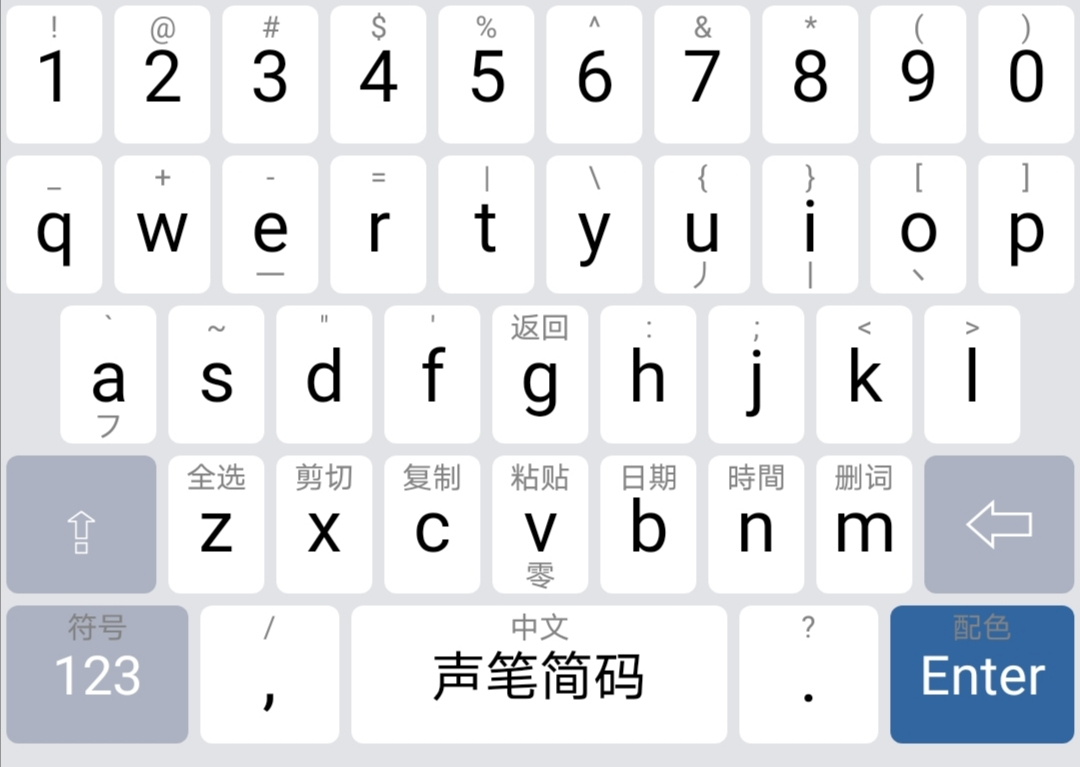
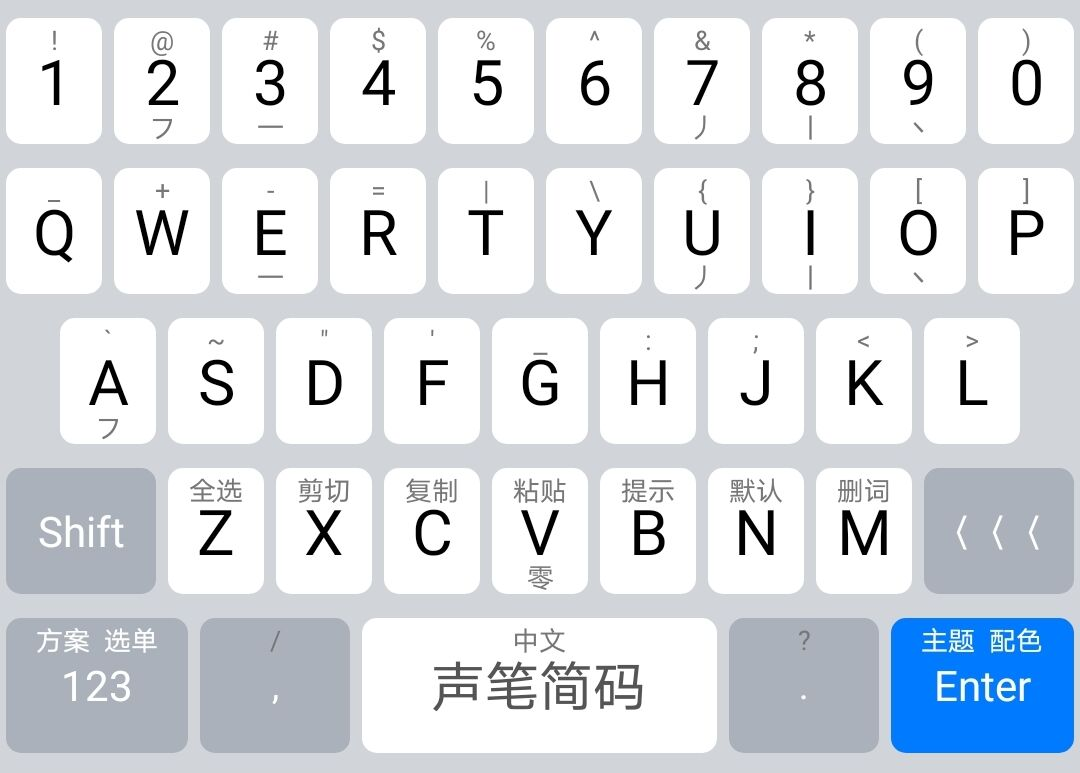
Site updated: 2021-03-02 15:04:26

diff --git a/sbfm/index.html b/sbfm/index.html
@@ -123,7 +123,7 @@
 <meta property="og:image" content="http://sbxlm.gitee.io/images/SbfmYyxxoe.png">
 <meta property="og:image" content="http://sbxlm.gitee.io/images/sbfz1.png">
 <meta property="og:image" content="http://sbxlm.gitee.io/images/sbfz2.gif">
-<meta property="og:updated_time" content="2021-02-26T02:51:57.350Z">
+<meta property="og:updated_time" content="2021-03-02T06:49:39.302Z">
 <meta name="twitter:card" content="summary">
 <meta name="twitter:title" content="声笔飞码">
 <meta name="twitter:description" content="一、概述声笔飞码，简称飞码，是在输入法界影响最大的顶功输入法，可以说是它直接或者间接地激发了其它非声笔系列顶功输入法的产生。声笔飞码有着「悠久」的历史，同时又在不断的进化、发展，一直处在高效顶功输入法的前沿，探索并创造新的顶功编码模式。 声笔飞码在2005年首次发布时引起了输入法圈子内巨大的震动，因为其纯单字的输入效率，在使用26个字母编码的前提下，比当时效率最高的五笔字型提高了35%，而且其学习">
@@ -625,10 +625,10 @@
 <p>受声笔飞码的直接或接间影响，现在已经产生出了许多顶功输入法。化外愚民先生在声笔飞码的基础上取消飞码的词组，增加几个标点符号进行编码，以进一步增强飞码的单字能力，形成了“西风瘦码”，使纯单字输入时的平均码长从飞码的2.4键左右降到了2.3键左右，成为单字派的利器，也成为后起单字派输入法追赶的目标。</p>
 <p>目前在互联网上，有关顶功输入法的讨论更是非常热烈，各种顶功思路层出不穷，令人眼花缭乱、应接不暇。除了早期的声笔码、声笔飞码、声笔快码和西风瘦码外，后来出现的有一码起顶的左飞1811，二码起顶的小兮码、灵形速影、左飞双拼、顶功雅歌，三码起顶的左飞三码、听雨三码，二四顶屏的顶功希码，星空学系列的星空两笔、星空键道及其变种，采用四二顶的C42，采用五二顶的徐码五二顶等等。</p>
 <p>后起的顶功输入法，最初都非常追求单字的效率，甚至达到了偏执的程度，于是采用无理码的风气盛行一时。但是，在二码顶的基础上，试图采用增加一定的码元、增加编码的复杂规则和增加无理码来大幅度缩短码长，收效都是不大的，这是汉字的统计特性所决定的。顶功输入并不意味着就是单字输入，词组的作用在顶功输入法中也是非常重要的。顶功和单字没有必然的联系，顶功输入法既以单字为主的，也有以词组为主的。</p>
-<p>声笔飞码经过了十多年的发展和创新，从1.00版到现在的9.50版，尝试了各种各样的顶功模式，终于确定下了现在主词的飞码。在飞码的基础上，还衍生出了主单的飞讯和整句型的飞整两个输入法方案。</p>
+<p>声笔飞码经过了十多年的发展和创新，从1.00版到现在的9.50版，尝试了各种各样的顶功模式，终于确定下了现在主词的飞码。在飞码的基础上，还衍生出了主单的飞讯和整句型的飞整两个输入法方案。最新版的飞讯又取得了重大的突破，将主单的输入法带到了一个前所未有的新高度，让主单的顶功输入法同时具有了强大的词组输入能力，深受极客打字用户的欢迎。</p>
 <p>本文将详细讲解飞码，然后对照飞码，花两节的篇幅来讲解飞讯和飞整，只讲有区别的地方，以免赘述。有关软件的安装与卸载、笔画反查、翻页、标点、符号、词库同步、自定义词典、中英文混合输入、手机操作等声笔系列码共有的内容，请阅读<a href="../about/">总体介绍</a>中的相关部分。</p>
 <h2 id="二、单字的输入"><a href="#二、单字的输入" class="headerlink" title="二、单字的输入"></a>二、单字的输入</h2><p>单字是输入法的基础，词组的编码是由单字的编码衍生出来的，所以必须对单字的编码有深刻的理解才能学好输入法。声笔飞码采用声母、笔画和偏旁部首来对汉字进行编码。声母不分平翘舌，零声母用v表示。横竖撇捺折五类笔画，分别用eiuoa来代表。</p>
-<p>声笔飞码一共收录了GBK的2万多单字，单字编码格式有两种，它们是<code>sb, spb^b</code>。其中，<code>sb</code>这种格式是比较特殊的，只有105个高频字采用它。它一方面增加了一点编码的复杂性，而另一方面又增加了飞码的离散能力，更重要的是给飞码带来了巨大的灵活性，为后起的优秀主单方案——飞讯的诞生创造了条件。除了105个高频字采用<code>sb</code>格式外，其它字都是采用的<code>spb^b</code>格式，前者称为声笔字，后者称为普通字。</p>
+<p>声笔飞码一共收录了GBK的2万多单字，单字编码格式有两种，它们是<code>sb</code>和<code>spb^b</code>。其中，<code>sb</code>这种格式是比较特殊的，只有105个高频字采用它。它一方面增加了一点编码的复杂性，而另一方面又增强了飞码的离散能力，更重要的是给飞码带来了巨大的灵活性，为后起的优秀主单方案——飞讯的诞生创造了条件。除了105个高频字采用<code>sb</code>格式外，其它字都是采用的<code>spb^b</code>格式，前者称为声笔字，后者称为普通字。</p>
 <p>在学习飞码之初，往往会遇到不会打的字。怎么办呢？系统提供了丰富的反查手段，可以通过笔画、拼音和声笔来反查编码和部首。在完全不知道读音的时候直接用<code>aeuio</code>按顺序输入笔画进行反查，在不知道字形时用a引导拼音反查（注意零声母要用v），在知道声母但不知道部首时直接用声母和笔画输入四码进行反查。反查的结果不仅会显示编码，而且会显示拆分的部首，以方便理解。以下是几个反查的例子。</p>
 <p><img src="/images/fmfc.png" alt="飞码反查"></p>
 <p>另外，通过i引导的拼音还支持用字海两分法来进行反查， 支持查找八万多汉字，一般用于难读而易于两分的字进行反查或者GBK以外字的输入。GBK以外的字，飞码不提供正常编码，不能按正常方式输入，只能在两分查找到后选择输入。下面是字海两分法查找的例子。</p>
@@ -638,25 +638,26 @@
             <p>如同孔明自快话，开口正道无怕经，二双公民来前线<br>年内安然回南国，若说阿维当农夫，片上方家暗笑她<br>进得高中好体面，心想事成且大为，别看晚儿那小子<br>强力对手也头破，从此把着全日用，除非白天会给还<br>部分次品立飞过，让利几起眼皮边，名门里外有意见</p>
           </div>
 <p>输入声笔字时，一般是不需要空格上屏的，因为它可以被后续的字词顶上屏幕，例如：<code>二双公民来前线</code>的输入码为<code>vesagumaleqoxa</code>。声笔字都是使用频率很高的字，所以飞码可以节约许多空格，，使得它有相当高的单字输入效率。</p>
-<p>由于声笔字与其它字有着不同的输入路径，为了减轻用户的记忆负担，在输入声母后，就对它们进行了提示，如下图所示。这样，初学者只有在观察到提示中没有想要的单字时才输入后面的编码。</p>
+<p>由于声笔字与其它字有着不同的输入路径，为了避免用户的死记，在输入声母后，就对它们进行了提示，如下图所示。这样，初学者只需观察提示中没有想要的单字，没有时才输入后面的编码。</p>
 <p><img src="/images/fmts.png" alt="声笔飞码提示"></p>
 <p>声笔字不仅在第一码后有提示，在第三码后也是有提示的，只是提示的方法不一样，如下所示，其中前两码为前一字对应的编码，第三码为第二字的第一码。这上面列出的两个字不一定是一个词，仅仅是为了提示声笔字而已。</p>
 <p><img src="/images/fmts2.png" alt="声笔飞码提示2"></p>
 <h3 id="2-普通字"><a href="#2-普通字" class="headerlink" title="2. 普通字"></a>2. 普通字</h3><p>飞码中采用<code>spb^b</code>格式的字称为普通字，即声母加偏旁部首加剩余部分的前两笔。</p>
-<p>飞码的偏旁部首通常就是人们查字典时使用的偏旁部首。为了便于记忆，在声笔飞码中一般取偏旁部首（或其名称）的声母作为它的代码。但是，为了提高编码的效率，有的偏旁部首采取了<code>形托</code>和<code>归类</code>的方法来确定其代码。同时，在归部时字典中一般将偏旁部首归于其自身，而声笔飞码将偏旁部首归于其首笔画，这一方面提高了编码的效率，另一方面也突出了偏旁部首的作用，有助于用户建立起识别偏旁部首的条件反射。还有，字典中一个字可以归于几个部，而声笔飞码中一个字只能归于一个部，一般是取书写顺序的第一个部，但有时要兼顾直观和<code>义部优先</code>等因素。</p>
+<p>飞码的偏旁部首通常就是人们查字典时使用的偏旁部首。为了便于记忆，在声笔飞码中一般取偏旁部首（或其名称）的声母作为它的代码。但是，为了提高编码的效率，有的偏旁部首采取了<code>形托</code>和<code>归类</code>的方法来确定其代码。同时，在归部时，字典中一般将偏旁部首归于其自身，而声笔飞码将偏旁部首归于其首笔画，这一方面提高了编码的效率，另一方面也突出了偏旁部首的作用，有助于用户建立起识别偏旁部首的条件反射。还有，字典中一个字可以归于几个部，而声笔飞码中一个字只能归于一个部，一般是取书写顺序的第一个部，但有时要兼顾直观和<code>义部优先</code>等因素。</p>
 <p>偏旁部首的具体键位定义如下，</p>
 <p><img src="/images/bushou.png" alt="bushou"></p>
-<p>为了减轻初学者的记忆负担，手机上提供了助记皮肤，如下图所示，可以长按上<code>G</code>键打开或者关闭助记。</p>
+<p>为了减轻初学者的记忆负担，手机上提供了助记皮肤，如下图所示，可以长按上<code>N</code>键打开或者关闭助记。</p>
 <p><img src="/images/sbfmzj.jpg" alt="声笔飞码助记"></p>
 <p>以上偏旁部首中，需要注意的有<code>勹</code>（包字头）、<code>忄</code>（像小写字母 l）、<code>廴辶</code>（像 L）、<code>灬</code>（烈字底）、<code>衤礻止</code>（形状勉强像 N）、<code>廾</code>（弄字底）、<code> 丿彡</code>（撇起笔）、<code>攴</code>（敲字旁）、<code>攵（夂 夊）</code>（反文旁）、<code>亠</code>（文字头）、<code>彐</code>（寻字头）、疋（音为 ya）、<code>罒</code>（置字头）、<code>镸</code>（长字音）、<code>巛</code>（甾）字头；可以通过以上不同的方式来辅助记忆它们的代码。</p>
 <p>在声笔飞码中所取笔画并不一定是从汉字的第一笔开始取的，这依赖于偏旁部首是否位于字的前面。如果偏旁部首位于字的前面，即偏旁部首前没有任何其它的笔画，那么追加的笔画就除偏旁部首外的第一笔开始取，否则就从字本身的第一笔开始取。</p>
 <p>例如，<code>倒</code>字的偏旁部首<code>亻</code>是位于该字的前面的，所以追加的笔画应从除<code>亻</code>外的剩余部分即<code>到</code>的第一笔开始。再如，<code>坠</code>字的偏旁部首<code>土</code>是位于该字的后面的，不是位于字的前面，所以追加的笔画应从该字的第一笔开始。注意，有的字的偏旁部首是夹在了前后笔画的中间，如<code>戴</code>字的偏旁部首<code>戈</code>。这时，字的偏旁部首仍然不是位于字的前面，所以追加的笔画还是应从该字的第一笔开始。</p>
-<p>在声笔飞码中，对偏旁部首本身来说，第一个笔画的代码用<code>zhpsd</code>而不是<code>aeuio</code>表示；而对一般汉字来说，才用它所属偏旁部首的代码。这里的偏旁部首是指成字偏旁部首，即有读音的偏旁部首，非成字偏旁部首只能按纯笔画方式输入。</p>
-<p>为了区分常用字的重码，有几个部首字的编码没有取第一笔作为偏旁部首，这些字为<code>走麦广</code>，它们都是取字的子部首。另外，<code>敌</code>字的部首没有取<code>舌</code>而取了<code>攵</code>，<code>或</code>字的部首没有取<code>戈</code>而取了<code>一</code>，算是例外。还有，为了提高离散，有的字没有取常规的部首；例如，<code>重 垂</code>取的是最下面的<code>二</code>而不是首笔撇；<code>奏 三</code>取的是上面的<code>二</code>；<code>某</code>取的<code>艹</code>而不是<code>木</code>。</p>
-<p>与传统四码输入法一样，飞码在形式上也有一、二、三级简码和全码，分别对应一简字、二简字、三简字和全码字。但是，在实质上是有很大区别的，其中最大的区别是，飞码的三简字可以被顶上屏幕，全码字的重码是用<code>aeuio</code>来选择而不是用难以击打的数字键。另外，飞码采用的出简不出全策略，有简码的字就不会有全码，以便节约有限的编码空间，并强制用户采用最高效的输入方式，形成快速的条件反射。</p>
+<p>在声笔飞码中，若偏旁部首本身是一个成字，那么就取它的第一个笔画作为部首，并用<code>zhpsd</code>来编码。非成字偏旁部首没有常规编码，只能按笔画反查方式输入。</p>
+<p>为了区分常用字的重码，有几个成字偏旁部首取其第一笔作为偏旁部首，这些字为<code>走麦广</code>，它们都是取字的子部首。另外，<code>敌</code>字的部首没有按顺序取<code>舌</code>而取了<code>攵</code>，<code>或</code>字的部首没有取<code>戈</code>而取了<code>一</code>。还有的字没有取常规的部首，例如：<code>重 垂</code>取的是最下面的<code>二</code>而不是首笔撇；<code>奏 三</code>取的是上面的<code>二</code>；<code>某</code>取的<code>艹</code>而不是<code>木</code>，<code>世</code>和<code>甘</code>取的<code>艹</code>而不是<code>一</code>等等。这些都是为了增强编码的离散而采取的变通取法。</p>
+<p>与传统四码输入法一样，飞码在形式上也有一、二、三级简码和全码，分别对应一简字、二简字、三简字和全码字。但是，在实质上是有很大区别的，其中最大的区别是，飞码的三简字可以被顶上屏幕，全码字的重码是用<code>aeuio</code>来选择而不是用难以击打的数字键。</p>
+<p>另外，与传统高效输入法一样，飞码采用的出简不出全策略，有简码的字就不会有全码，以便节约有限的编码空间，并强制用户采用最高效的输入方式，形成快速的条件反射。所以，一定要注意，飞码输入汉字时，“过了这个村就没有这个店了”，不能输完四码再看有没有你要的字。初学的时候一定要每输入一码就看有没有你要的字，没有的话才能输入后面的编码，否则就可能错过你要的字。当然，在你在使用中记住了字的码长，形成条件反射后，是完全可以不看提示行的。</p>
 <h4 id="1-一简字"><a href="#1-一简字" class="headerlink" title="(1) 一简字"></a>(1) 一简字</h4><p>飞码有21个一简字：<code>不平没发的他你了个可和就去下在出是人而一我</code>，又称为声空字或<code>s_字</code>，其中<code>_</code>表示空格。它们是强制性的简码字，没有对应的全码，都是使用频率极高的字，使用一段时间后用户就会自然地形成条件反射。</p>
-<p>一简字一般需要用声母加空格输入，但是在后接非编码字符时是可以省略空格的。例如，<code>我是一个人。</code>的输入码为<code>w_s_y_g_r.</code>，其中<code>_</code>表示空格，最后的「人」字，被句号顶上屏幕而省略空格。</p>
-<p>与传统输入法不同，飞码的一简字所加的空格是作为编码来对待的。如果没有后续编码而需要将其上屏的时候，就需要连续两次空格键。为了避免这个问题，特设置可以用数字4将一简字直接选择上屏，以便节约一次按键。这在一简字因组合输入出现在第三码时也是适用的，这时还可以避免双击空格误上屏不需要的词组，因为当四码有重码且组合的二字串不是首选项时，「行了」不在首选，双击空格时上屏的将不是「行了」而是「形成了」，如下图所示。</p>
+<p>与传统输入法不同，飞码的一简字所加的空格是作为编码来对待的，输入空格后，一简字不会立刻上屏，但是在连续输入过程中会被后面字词的首码「顶」上屏幕。例如，<code>我是一个人。</code>的输入码为<code>w_s_y_g_r.</code>，其中<code>_</code>表示空格。</p>
+<p>在极个别情况下，需要单独输入一简字并将其立刻上屏的时候，就需要连续两次空格键。为了避免这个问题，可以用数字4将一简字直接选择上屏，以便节约一次按键。这在一简字因组合输入出现在第三码时也是适用的，这时还可以避免双击空格误上屏不需要的词组，因为当四码有重码且组合的二字串不是首选项时，「行了」不在首选，双击空格时上屏的可能就不是「行了」而是「形成了」，如下图所示。</p>
 <p><img src="/images/ljsp.png" alt="立即上屏"></p>
 <h4 id="2-二简字"><a href="#2-二简字" class="headerlink" title="(2) 二简字"></a>(2) 二简字</h4><p>飞码的二简字有441个，其格式为<code>sp</code>，所以又称为<code>sp字</code>或者声偏字，其中的大多数也是相当常用的，例如：<code>加jl 尽js 量lq</code>等。</p>
 <p>与传统输入法一样，声笔飞码的二简字一般需要加空格上屏。例如，<code>解jj_ 所sj_ 摸mf_</code>等等，其中<code>_</code>表示空格。当然，如果后接的是数字、标点符号等非编码字符时，这个空格仍然是可以省略的。</p>
@@ -664,12 +665,12 @@
 <h4 id="4-全码字"><a href="#4-全码字" class="headerlink" title="(4) 全码字"></a>(4) 全码字</h4><p>声笔飞码的全码是四码，编码格式为<code>spbb</code>，即声母加偏旁部首再加剩余部分的前两个笔画，例如：<code>码msaa 巨jkae 瞄mmei</code>等。但是，在出现重码字时，声笔飞码采用了更加快捷的选择方式，不是用数字键，而是用<code>aeuio</code>来进行选择，如下所示。</p>
 <p><img src="/images/fmxc.png" alt="声笔飞码选重"></p>
 <h4 id="5-条件顶"><a href="#5-条件顶" class="headerlink" title="(5) 条件顶"></a>(5) 条件顶</h4><p>飞码的单字除了三码字可以被顶上屏幕外，其声空字和二码字也可以在一定条件下被顶上屏幕，这是一种非常奇特的能力，是从飞讯反向借鉴过来的。飞码条件顶是指在输入二字词的时候，若第一字正确而第二字不对时，可以追加第二字的第三码，将第一字顶上屏幕，前提是追加的第三码与选择键没有冲突。例如，在输入「声笔」的时候，发现系统没有该词，而且「笔」字的第三码u又没有被重码词占用，那么在输入u的时候就会将「声」字顶上屏幕，留下「bpu」，对应的字正是「笔」。这样，就不必用退格键来清除「bp」两码，用空格先上屏「声」字，再输入「笔」字了。</p>
-<h2 id="三、词组的输入"><a href="#三、词组的输入" class="headerlink" title="三、词组的输入"></a>三、词组的输入</h2><p>词组，特别是二字词，在现代汉语中是占主导地位的，任何输入法都不能忽视。飞码对二字词特别重视，以便提高其输入效率。飞码词组按其组成字的多少分为二字词、三字词和多字词，现分述如下。</p>
+<h2 id="三、词组的输入"><a href="#三、词组的输入" class="headerlink" title="三、词组的输入"></a>三、词组的输入</h2><p>词组，特别是二字词，在现代汉语中是占主导地位的，任何输入法都不能忽视。飞码对二字词特别重视，致力于提高其输入效率。飞码词组按其组成字的多少分为二字词、三字词和多字词，现分述如下。</p>
 <h3 id="1-二字词"><a href="#1-二字词" class="headerlink" title="1. 二字词"></a>1. 二字词</h3><p>飞码的二字词输入功能强大，其二字词被进一步分为常规词组和数选简词两类。</p>
-<h4 id="1-常规词组"><a href="#1-常规词组" class="headerlink" title="(1) 常规词组"></a>(1) 常规词组</h4><p>除数选简词外的所有二字词都是常规词组，而常规词组又分为sbbs型和spsz型。之所以要这样设计，一方面是为了实现部分单字能够二码顶，提高单字效率，另一方面也是为了增强打词的顺畅感和避免一简字用双空格。</p>
+<h4 id="1-常规词组"><a href="#1-常规词组" class="headerlink" title="(1) 常规词组"></a>(1) 常规词组</h4><p>飞码的常规二字词又分为sbbs型和spsz型。之所以要这样设计，就是为了声笔字能够二码顶，以提高单字效率，使它的单字效率优于其它主词的顶功输入法。</p>
 <p>由21个声空字和105声笔字开头的二字词为sbbs型，其编码方法为第一字的前两码加第二字的前一笔再加第二字的声母，例如：<code>不能b_an 下台x_at 大汉deoh 心爱xouv</code>等。若二字词首字的前两码为声母加偏旁部首，那么就是spsz型的，其第二字就是取相应单字的前两码，例如：<code>常规cjgj 电脑dqnv 洞见ddji 健全jrqu 统一tjy_ 淹没ydm_</code>等。</p>
 <p>另外，为了输入方便，飞码在第三码时提示了前两码对应的单字和第三码开始的一简字和声笔字，例如：<code>困一kky_ 放是ffs_ 难大nyde 实无sgwe</code>等。如果这种字串与真正的词组重码也没有关系，它会被作为重码词排在最后，只需用<code>aeuio</code>选择上屏即可。为了增加确定性，在第二码为声空字时，可以在输入三码后用4直接上屏，例如：<code>困一kky4 放是ffs4</code>，以避免在有重码时进行选重。</p>
-<h4 id="2-数选简词"><a href="#2-数选简词" class="headerlink" title="(2) 数选简词"></a>(2) 数选简词</h4><p>为了提高输入效率，飞码提供了数选简词，但不是强制使用的，仍然有对应的正常字母编码词组。所谓数选简词，是指用数字键来选择的简码词组。为了减少记忆量，数字的使用并不是随机的，而是用23789来代替aeuio表示笔画。</p>
+<h4 id="2-数选简词"><a href="#2-数选简词" class="headerlink" title="(2) 数选简词"></a>(2) 数选简词</h4><p>为了提高输入效率，飞码提供了数选简词，但不是强制使用的，它们仍然有对应的正常编码词组。所谓数选简词，是指用数字键来选择的简码词组。为了减少记忆量，数字的使用并不是随机的，而是用23789代替aeuio来表示笔画。</p>
 <p>为什么用23789，而不用传统的12345呢？这一方面是因为23789比12345更加容易操作，另一方面是23789可以与aeuio在键盘上位子形成近乎完美的映射，除2外正好位于相应笔画字母上一排相同的位置，非常容易记住，如下图所示。</p>
 <p><img src="/images/Bhszys.jpg" alt="笔画数字映射"></p>
 <p>数选简词分为sn型和szn型两种。飞码sn型的数选简词一共有105个，其具体编码格式为<code>s1n2</code>，即首字的声母加第二字的数字首笔，例如：<code>不能b2 发生f7 就是j8 科学k9</code>等。这些简词在声笔系列的所有字词型方案中都是一样的，使用频率很高，应该尽量采用。</p>
@@ -683,7 +684,7 @@
 <figure class="highlight plain"><table><tr><td class="gutter"><pre><span class="line">1</span><br><span class="line">2</span><br><span class="line">3</span><br><span class="line">4</span><br><span class="line">5</span><br><span class="line">6</span><br><span class="line">7</span><br><span class="line">8</span><br><span class="line">9</span><br></pre></td><td class="code"><pre><span class="line">不可能	bka</span><br><span class="line">让我们	rwu</span><br><span class="line">你知道	nzo</span><br><span class="line">没办法	mbo</span><br><span class="line">发现该	fxo</span><br><span class="line">多功能	dga</span><br><span class="line">那个人	ngu</span><br><span class="line">公安局	gva</span><br><span class="line">控制器	kzi</span><br></pre></td></tr></table></figure>
 <h2 id="四、字词分流"><a href="#四、字词分流" class="headerlink" title="四、字词分流"></a>四、字词分流</h2><p>在传统输入法如五笔字型中，四码的字、词是混合编码的，它们共享同一个编码空间。在发生重码时，究竟把单字排在前面，还是把词组排在前面，面临艰难的决策。当收录的单字和词组数量增大时，这个问题会变得更加突出。</p>
 <p>在声笔飞码中，单字和词组各自有不同的编码格式，单字的第三码肯定是笔画，而词组的第三码肯定是声母。所以，它们享有不同的编码空间，不会发生冲突，不存在单字和词组那个优先的问题。例如，四码单字<code>校jmoe 码msaa 暮mqei 渊yduo</code>，四码词组<code>答应dpyg 进步jebn 估计grjy 理想lwxe</code>，它们之间是绝对不会重码的。</p>
-<h2 id="五、扩展编码"><a href="#五、扩展编码" class="headerlink" title="五、扩展编码"></a>五、扩展编码</h2><p>声笔飞码词组的四码空间容量与传统四码输入法如五笔字型是差不多的。但是，由于声笔系列收词量高达48万之多，虽然飞码的离散很好，但是在个别情况下重码现象也会比较严重，可能需要多次翻页查找。于是，飞码采用了与声笔简码类似的扩展编码，通过追加首字的前两个笔画能迅速扩大编码空间为四码时的25倍，可以快速筛选出所需的重码词组。结合后述动态码长的使用，完美地兼顾了编码空间与输入效率，既能享有巨大的编码空间，又能具有较短的平均码长，两全其美。</p>
+<h2 id="五、扩展编码"><a href="#五、扩展编码" class="headerlink" title="五、扩展编码"></a>五、扩展编码</h2><p>声笔飞码词组的四码空间容量与传统四码输入法如五笔字型是差不多的。但是，由于声笔系列收词量高达48万之多，虽然飞码的离散很好，但是在个别情况下重码现象也会比较严重，可能需要多次翻页查找。于是，飞码采用了与声笔简码类似的扩展编码，通过追加首字的前两个笔画，迅速扩大编码空间为四码时的25倍，可以快速筛选出所需的重码词组。结合后述动态码长的使用，完美地兼顾了编码空间与输入效率，既能享有巨大的编码空间，又能具有较短的平均码长，两全其美。</p>
 <p>比如，「音乐学」一词在第一次输入时，输入<code>yyxx</code>后需要在第四页才能找到，如下图所示。每一页，都需要用眼睛扫视 6 个选项，人机交互频繁，效率很低。</p>
 <p><img src="/images/SbfmYyxx.png" alt="声笔飞码Yyxx"></p>
 <p>然而，如果再追加首字前两个笔画<code>oe</code>的话，「音乐学」就出现在第一页上，只需用<code>u</code>选择上屏就可以了，如下图所示。</p>
@@ -692,8 +693,8 @@
 <h2 id="六、动态码长"><a href="#六、动态码长" class="headerlink" title="六、动态码长"></a>六、动态码长</h2><p>动态码长不仅是码长的调整，也包括重码顺序的调整，实际上都是因为对频率的调整而引起的。但是，作为专业性的输入法，飞码只有词组参与调频，其单字是不参与调频的，即单字的重码位置是固定的，这有利于对单字进行快速盲打。</p>
 <p>当四码词组有重码的时候，如果选择了某个非首位的词组，那么它的频率权重就会提高，在下次输入的时候，其排序就会提前。一般通过一、两次选择就可以提前到首位，从而就能利用顶屏来节约一次按键。</p>
 <p>例如：第一次输入<code>针织zjzj</code>时如果它是排在第三位 ，用<code>e</code>选择上屏后，下次输入就可能排在首位了，于是可以利用顶屏节约一次选择键。如果在输入的时候采用了扩展编码，比如用<code>yyxxoe</code>输入了「音乐学」，那么在下次输入的时候一般就只需要<code>yyxx</code>就可以了，码长得到了缩短。</p>
-<h2 id="七、词组的管理"><a href="#七、词组的管理" class="headerlink" title="七、词组的管理"></a>七、词组的管理</h2><p>声笔飞码目前自带48万多词组，覆盖的面已经很广。但是，用户在使用过程中不可避免地还会遇到缺词的情况，需要添加新的词组，而且对于不满意的词组可能还想删除。另外，在有重码时，重码词排列的顺序不一定是用户所希望的，需要进行动态的调整。声笔飞码就提供了这些能力。如果觉得词组太少，还可以下载48万的扩展词库来替换主程序自带的词库。</p>
-<h3 id="1-自动造词"><a href="#1-自动造词" class="headerlink" title="1. 自动造词"></a>1. 自动造词</h3><p>飞码的造词是在输入过程中自动进行的。例如：输入<code>声st 笔bpu</code>后，下次输入<code>stbp</code>时就会有该词了，只是如果有重码的话，新造的词会排在后面。如果重码太多，可以追加首字前两笔或者用Tab一次性地跳到最后，以避免多次翻页。自动造的词组是临时词组，带有太极标志，优先级别低，只有在选择使用一次以后，才会成为正式词组，并提高优先级别。</p>
+<h2 id="七、词组的管理"><a href="#七、词组的管理" class="headerlink" title="七、词组的管理"></a>七、词组的管理</h2><p>声笔飞码目前自带48万多词组，覆盖的面已经很广。但是，用户在使用过程中不可避免地还会遇到缺词的情况，需要添加新的词组，而且对于不满意的词组可能还想删除。另外，在有重码时，重码词排列的顺序不一定是用户所希望的，需要进行动态的调整。声笔飞码就提供了这些能力。</p>
+<h3 id="1-自动造词"><a href="#1-自动造词" class="headerlink" title="1. 自动造词"></a>1. 自动造词</h3><p>飞码的造词是在输入过程中自动进行的，无需用户干预。例如：输入<code>声st 笔bpu</code>后，下次输入<code>stbp</code>时就会有该词了，只是如果有重码的话，新造的词会排在后面。如果重码太多，可以追加首字前两笔或者用Tab一次性地跳到最后，以避免多次翻页。自动造的词组是临时词组，带有太极标志，优先级别低，只有在选择使用一次以后，才会成为正式词组，并提高优先级别。</p>
 <p>需要注意的是，在进行枚举自动造词的时候，是以编码对应的字、词为单位来进行组合的，并不是以单字为单位的。例如，在输入<code>声笔stbp 系列xxld 码msaa</code>后，生成的词组为「声笔系列码」「声笔系列」「系列码」，而不会生成「声笔系」「笔系列」「列码」等。另外，如果之后马上使用了退格键，系统就会自动删除所造的词组；中间夹杂有非汉字的话，也会中断造词。</p>
 <h3 id="2-词组删除"><a href="#2-词组删除" class="headerlink" title="2. 词组删除"></a>2. 词组删除</h3><p>由于飞码是采用的自动造词策略，在提供方便的同时也会产生大量的废词，所以系统提供了废词清理功能，能够将用户几乎不使用的新造临时词组自动清除。对于少量暂时还未被清理的废词，用户不必理会，到时限后就会被自动删除。在必要的时候，如用户错误地确认了临时词组，系统也提供了手动删除的手段，方法是先将光标移动到该词上面，再按<code>Control + Delete</code>键来删除。注意，如果是非临时词组，需要删除两次才能删除。第一次删除时只是把它变成了临时词组。在安卓手机上的删除方法是，用左右滑动空格定位词组，再用删词键来删除。</p>
 <h2 id="八、综合输入示例"><a href="#八、综合输入示例" class="headerlink" title="八、综合输入示例"></a>八、综合输入示例</h2><p><strong>例1:</strong><code>女nz_ 鬼gpi 食spo 音ydeo 见ji_ 手su_</code></p>
@@ -705,11 +706,11 @@
 <h2 id="九、声笔飞讯"><a href="#九、声笔飞讯" class="headerlink" title="九、声笔飞讯"></a>九、声笔飞讯</h2><p>声笔飞讯，简称飞讯，是基于飞码的衍生方案，其特点是所有二简字在输入的时候可因为顶功而省略空格键，因此具有更短的单字平均码长，而词组的码长相对较长，所以属于主单的输入方案，擅长离散文本的录入。为了让词组的输入更顺畅，飞讯采用了延迟顶屏，具体来说延迟了一至两码来顶单字，属于42和52混合延迟顶的范畴。</p>
 <p>飞讯与飞码的差异很小。可以说，只要学会了飞码，也就基本上学会了飞讯，无需太多额外的学习，了解一下规则就行了。关键是，要形成不同的输入习惯，这就需要一定的时间。如果想能自如的在不同场合切换飞讯和飞码来使用，那就需要更多的时间来适应了。</p>
 <p>飞讯的单字输入与飞码几乎完全一样，唯一的差别是<code>spb^b</code>格式的普通字由三码顶变成了二码顶。例如，「入」的输入码，飞码为<code>rp_</code>，而飞讯为<code>rp</code>。</p>
-<p>飞讯的词组编码，只需将第四码换成末字的前两个笔画即可。另外，飞讯的<code>s1n2</code>和<code>s1z1b2</code>型数选简词与飞码是完全一样的。对于<code>s1z1b2</code>型数选简词，当首字为一简字或者声笔字时，第三码也可以用<code>aeuio</code>输入，而且还支持顶屏。</p>
-<p>具体来说，飞讯二字词的编码格式为<code>s1z1s2b2b2</code>，例如：<code>简码jpmeu 半角bdjua 蝴蝶hcdia 奔驰bdcaa</code>等。由于飞讯的词组输入需要五码，所以在用单字输入的时候不超过五码的二字词是不能用词组的方式来输入的，目的是强制用户使用高效的方式，同时减少二字词的重码。记住单字的简码应该是飞讯用户的基本功，这样便于训练出键速，靠快速的条件反射来提高输入速度。需要注意的是，飞讯没有飞码中的sbbs型二字词，该型变成了sbsz，即第二字取前两码就可以了，规则更加简单，例如：<code>一直y_zei 大佬delui</code>等。</p>
-<p>飞讯三字词的编码格式为<code>s1s2s3b3b3</code>，例如：<code>计算机jsjei 新世纪xsjaa 大无畏dwwia</code>等。三字词采用词组可以节约用键，建议使用词组的方式来输入。可能的例外情况是一、二简字构成的三字词如<code>好起来 不知道</code>等，它们用单字输入也才六键，而键速可能更快，因为单字更容易形成条件反射。具体怎么打好，就看用户自己的使用习惯了。</p>
+<p>飞讯的词组编码，只需将飞码词组的第四码换成末字的前两个笔画即可。飞讯的<code>s1n2</code>和<code>s1z1b2</code>型数选简词与飞码是完全一样的。对于<code>s1z1b2</code>型数选简词，当首字为一简字或者声笔字时，第三码也可以用<code>aeuio</code>输入，而且还支持顶屏。</p>
+<p>具体来说，飞讯二字词的编码格式为<code>s1z1s2b2b2</code>，例如：<code>简码jpmeu 半角bdjua 蝴蝶hcdia 奔驰bdcaa</code>等。由于飞讯的词组输入需要五码，所以在用单字输入的时候不超过五码的二字词是不能用词组的方式来输入的，目的是强制用户使用高效的方式，同时减少二字词的重码。记住单字的简码应该是飞讯用户的基本功，这样才便于训练出键速，靠快速的条件反射来提高输入速度。需要注意的是，飞讯没有飞码中的sbbs型二字词，该型被统一成了sbsbb，所以规则更加简单，例如：<code>一直y_zei 大佬delui</code>等。</p>
+<p>飞讯三字词的编码格式为<code>s1s2s3b3b3</code>，例如：<code>计算机jsjei 新世纪xsjaa 大无畏dwwia</code>等。三字词一般建议使用词组的方式来输入，以便节约用键。可能的例外情况是由两键字（一、二简字和声笔字）构成的三字词如<code>好起来 不知道</code>等，它们用单字输入也才六键，而键速可能更快，因为单字更容易形成条件反射。具体怎么打好，就看用户自己的使用习惯了。</p>
 <p>飞讯多字词的编码格式为<code>s1s2s3b0b0</code>，其中的0表示末字，例如：<code>呼风唤雨hfhei 风雨同舟fytuu 生龙活虎slhie</code>等。考虑到有的成语用字比较生僻，飞讯也支持第四码用声母，但是得用大写来输入，例如：<code>呼风唤雨hfhY 风雨同舟fytZ 生龙活虎slhH</code>等。</p>
-<p>另外，飞讯的词组也是支持扩展编码的，在重码多的时候，可以追加首字的前两笔来快速过滤重码，但是多字词第四码用大写输入时除外。</p>
+<p>另外，飞讯的词组也是支持扩展编码的，在重码多的时候，可以追加首字的前两笔来快速区分重码，但是多字词第四码用大写输入时不能使用扩展编码。</p>
 <h2 id="十、声笔飞整"><a href="#十、声笔飞整" class="headerlink" title="十、声笔飞整"></a>十、声笔飞整</h2><p>声笔飞整是声笔飞码的整句模式。它不需要考虑单字、二字词、三字词和多字词的不同编码规则，只需要知道单字的编码就可以进行中文输入了。但是，它的缺点是，在输入发生错误后回改的成本高，离散程度高的文本尤其如此。所以，声笔飞整仅适合录入简单的连续文本，或者供声笔飞码的初学者使用，熟练的用户应当使用声笔飞码和声笔飞讯。</p>
 <p>下面举例说明一下声笔飞整的输入方法。</p>
 <p><strong>例1:</strong><code>我们大家都喜欢研究输入法</code></p>

diff --git a/sbjm/index.html b/sbjm/index.html
@@ -124,7 +124,7 @@
 <meta property="og:image" content="http://sbxlm.gitee.io/images/SbjmSjo.png">
 <meta property="og:image" content="http://sbxlm.gitee.io/images/SbjmSxzc.png">
 <meta property="og:image" content="http://sbxlm.gitee.io/images/sbjz2.gif">
-<meta property="og:updated_time" content="2021-02-23T02:34:05.071Z">
+<meta property="og:updated_time" content="2021-03-02T03:14:23.076Z">
 <meta name="twitter:card" content="summary">
 <meta name="twitter:title" content="声笔简码">
 <meta name="twitter:description" content="一、概述声笔简码建立在声笔码基础之上，基本上克服了声笔码的两个不足之处：码长不定和调头取笔。如果说声笔码是顶功的开山之作，那么声笔简码就是顶功的成熟之品，是总结声笔码、声笔飞码等顶功输入法的使用经验，并反复实验、改造的结晶，这个过程经历了漫长的十多年。在这十多年中，顶功输入法得到了蓬勃的发展，数十种顶功输入法应运而生。但是，它们都或多或少地面临类似的问题。声笔简码的成功经验，也可以用于克服声笔飞码">
@@ -626,7 +626,7 @@
 <p>本文除了讲解声笔简码外，还将在章末介绍声笔简整。声笔简整是基于声笔简码的整句方案，在使用上比声笔简码还简单得多。理解了声笔简码就很容易理解它，所以仅仅花费少量篇幅介绍就行了。</p>
 <p>有关软件的安装与卸载、翻页方法、标点、符号、词库同步、自定义词典、中英文混合输入、手机操作等声笔系列码共有的内容，请阅读《总体介绍》中的相关部分，这里就不再赘述。</p>
 <h2 id="二、优势"><a href="#二、优势" class="headerlink" title="二、优势"></a>二、优势</h2><p>声笔简码的优势可以总结为：简单性、高效性和知识性。它比拼音更简单，比五笔更高效，还有利于人们巩固语文知识。</p>
-<h3 id="1-比拼音更简单"><a href="#1-比拼音更简单" class="headerlink" title="1. 比拼音更简单"></a>1. 比拼音更简单</h3><p>声笔简码非常简单，具有易学、易用的优点，只需要知道用v表示零声母，用aeuio分别表示折、横、撇、竖、点五种笔画，便可以上手使用了。与搜狗拼音、百度拼音等拼音输入法相比，它不用区分平、翘舌，不需要知道韵母，没有区分前、后鼻音等的烦恼。</p>
+<h3 id="1-比拼音更简单"><a href="#1-比拼音更简单" class="headerlink" title="1. 比拼音更简单"></a>1. 比拼音更简单</h3><p>声笔简码非常简单，具有易学、易用的优点，只需要知道用v表示零声母，用aeuio分别表示折、横、撇、竖、捺五种笔画，便可以上手使用了。与搜狗拼音、百度拼音等拼音输入法相比，它不用区分平、翘舌，不需要知道韵母，没有区分前、后鼻音等的烦恼。</p>
 <p>根据王力德《汉字编码的普及目标体系与编码实例》的研究，在各种汉字属性中，声母和笔顺在必修系数、规范系数、简单系数和记忆系数四大方面得分都是最高的，如下表所示。</p>
 <div class="table-container">
 <table>
@@ -717,17 +717,17 @@
 </table>
 </div>
 <p>表中，必修系数为某汉字属性对“中小学语文课所必修”的隶属度，必修者为1，非必修者为0。规范系数为某汉字属性对规范性的隶属度；完全明确且有公认的统一标准，不产生歧义者为1；基本有公认标准，但使用时存在比较大的模糊性为0.5；没有公认标准，无论范围或分类全部都是各家任意规定，模糊性相当严重者为0。简单系数为某汉字属性对简单性的隶属度；简单、直观、易掌握者为1，有一定难度者为0.5，难学者为0。记忆系数为某汉字属性对记忆性的隶属度；某属性种类少，记忆量少，无须强制记忆，回生率低则为1；反之为0；介于两者间的为0.5。</p>
-<p>声笔简码仅仅使用了不分平翘舌的声母和按书写顺序的笔画，所以它是最简单的输入法。不仅如此，汉字的笔画信息还十分丰富，给编码带来了巨大的灵活性，可以做到伸缩自如。另外，声笔简码进行了体贴入微的反馈设计，编码窗口更加方便简捷、更加人性化，减少了人机交互，打开学习辅助功能后，连五种笔画的对应字母都不用记忆。声笔简码还采用aeuio选择重码字词，不需要像传统输入法一样击打不方便的数字键，进一步增强了输入法的易用性。</p>
-<h3 id="2-比五笔更高效"><a href="#2-比五笔更高效" class="headerlink" title="2. 比五笔更高效"></a>2. 比五笔更高效</h3><p>声笔简码具有静态编码的126个简码字和441个简码二字词，对其它字词的码长可以进行动态调整，并且可以自动造词、自动淘汰罕见词组，使其能不断地适应输入者的需要，逐步成为专门为用户量身定做的输入法，比以速度见长的五笔字型输入法的平均码长还短得多。在一般人使用时，声笔简码实际输入速度也比五笔字型快得多。</p>
+<p>声笔简码仅仅使用了不分平翘舌的声母和按书写顺序的笔画，所以它在必修系数、规范系数、简单系数和记忆系数四个方面都是最好的。不仅如此，汉字的笔画信息还十分丰富，给编码带来了巨大的灵活性，可以做到伸缩自如。</p>
+<h3 id="2-比五笔更高效"><a href="#2-比五笔更高效" class="headerlink" title="2. 比五笔更高效"></a>2. 比五笔更高效</h3><p>声笔简码具有静态编码的126个简码字和441个简码二字词，还有105个两键数选简词和大量三键数选简词，对其它字词的码长还可以进行动态调整，并且可以自动造词、自动淘汰罕见词组，使其能不断地适应输入者的需要，逐步成为专门为用户量身定做的输入法，比以速度见长的五笔字型输入法的平均码长还短得多。</p>
 <p>根据北京语言文化大学的大型字频率统计资料，抽取其中的GB2312汉字对几个输入法的单字输入效率所作的统计分析，在字均用键上进行比较的结果为：声笔简码（3.1678）&lt;五笔字型（3.2658）&lt;自然码（3.3061），均未计算标点符号。也就是说，声笔简码的单字输入效率比五笔字型提高了3.09%，比自然码提高了4.37%。对于大字符集（如GBK字符集和GB18030字符集），由于增加的都是不常见的汉字，所以对该统计结果基本上不会产生什么影响。不过，需要注意的是，统计是针对典型的汉字文本得出的，是在统计平均意义上的结果，并不排除有的文本会产生不同甚至相反的结果。</p>
-<p>上面讨论的是完全用单字输入汉字且不进行动态码长调整的情况，而实际输过程中往往是字词混合输入的，而且码长是动态变化的。由于词组的数量非常庞大，而且不同的输入法所收的词组的数量和种类都不大一样，因此要根据词频表来统计字词混合输入时各种输入法的效率是非常困难的。不过，词组输入是声笔简码的强项，字词混输加动态码长调整时，声笔简码的字均码长仅为1.6左右，大大优于五笔字型，因为五笔字型的字均码长为2.1左右。声笔简码的动态码长，从信息论的角度来讲，相当于利用通用数据压缩算法对汉字信源进行了压缩。数据压缩技术的应用十分普遍,WinRar和WinZip等常规数据压缩软件已经成为现在人们使用的必备软件了。声笔简码缩短码长的原理与它们是类似的。</p>
-<p>有人可能会马上反驳说，声笔简码的只有126个简码字和441个简码词能够盲打，其它字词的码长会发生变化，打字时需要观察提示行，所以不能像全静态的五笔或者小鹤音形那样完全盲打，所以打不快。这种说法有一定道理，但并不完全正确。动态码长的字词不能盲打，这一点是对的。但是，打不快就不一定对了。盲打固然能提高击键速度（键速），然而打字的速度不仅仅取决于键速，它还取决于平均码长，因为打字速度=键速/码长。声笔简码通过缩短码长来补偿了键速的损失，从而同样能实现高速打字，取得中文录入的高效率。更为主要的是，绝大多数人在绝大多数场合，其打字的使用场景都是有限的，而且其输入的文本都是比较简单的连续文本，比如聊天、写公文等，而且一般人的键速都不会很快，所以使用声笔简码打字反而比使用五笔之类的输入法来「盲打」更高效。</p>
-<h3 id="3-便于巩固中文"><a href="#3-便于巩固中文" class="headerlink" title="3. 便于巩固中文"></a>3. 便于巩固中文</h3><p>声笔简码是帮助人们巩固语文知识的绝佳手段。为什么呢？</p>
+<p>上面讨论的是完全用单字输入汉字且不进行动态码长调整的情况，而实际输过程中往往是字词混合输入的，而且码长是动态变化的。由于词组的数量非常庞大，而且不同的输入法所收的词组的数量和种类都不大一样，因此要根据词频表来统计字词混合输入时各种输入法的效率是非常困难的。不过，词组输入是声笔简码的强项，字词混输加动态码长调整时，声笔简码的字均码长仅为1.6左右，大大优于五笔字型，因为五笔字型的字均码长为2.1左右。声笔简码的动态码长，从信息论的角度来讲，相当于利用通用数据压缩算法对汉字信源进行了压缩。数据压缩技术的应用十分普遍，WinRar和WinZip等常规数据压缩软件已经成为现在人们使用的必备软件了。声笔简码缩短码长的原理与它们是类似的。</p>
+<p>有人可能会马上反驳说，声笔简码的只有126个简码字、441个简码词和一些数选简词能够盲打，其它字词的码长会发生变化，打字时需要观察提示行，所以不能像全静态的五笔或者小鹤音形那样完全盲打，所以打不快。这种说法有一定道理，但并不完全正确。动态码长的字词不能盲打，这一点是对的。但是，打不快就不一定对了。盲打固然能提高击键速度（键速），然而打字的速度不仅仅取决于键速，它还取决于平均码长，因为打字速度=键速/码长。声笔简码通过缩短码长补偿了键速的损失，从而同样能实现高速打字，取得中文录入的高效率。更为主要的是，绝大多数人在绝大多数场合，其打字的使用场景都是有限的，而且其输入的文本都是比较简单的连续文本，比如聊天、写公文等，而且一般人的键速都不会很快，所以使用声笔简码打字反而比使用五笔之类的输入法来「盲打」更高效。</p>
+<h3 id="3-便于巩固中文"><a href="#3-便于巩固中文" class="headerlink" title="3. 便于巩固中文"></a>3. 便于巩固中文</h3><p>声笔简码还是帮助人们巩固语文知识的绝佳手段。为什么呢？</p>
 <p>现在绝大多数人使用的拼音输入法完全没有字形的信息，长期使用拼音输入法以后，往往会产生「提笔忘字」的现象，有意无意地采用同音替代，如「突破」误为「图破」、「重点」误为「终点」等；而长期使用五笔字型之类纯形码，则常常会产生「见字失读」的现象，打字时可能出现形似替代，如「紧」误为「紫」、「租赁」误为「租凭」等。音形结合的输入法，如自然码和小鹤音形，则有利于克服这种窘境，但是需要同时掌握双拼和拆分的双形，学习难度相当大，虽然可能比学习五笔字型的门槛要低点。</p>
 <p>声笔简码也是一种音形结合的输入法，但是用的是音里面最简单的声母（而且不分平翘舌）和形里面最简单的笔画（而且按笔顺取），所以学习难度非常低。人们「提笔忘字」和「见字失读」基本上都只是缺少联想线索而导致想不起来了，而不是忘得一干二净。只要稍加提示，比如提示声母或者首笔，就会「哦」的一下回忆起来。故而，声笔简码就以最小的代价，帮助人们巩固了语文知识——汉字的读音和字形，而且笔画和笔顺是遵从国家标准的，不是五笔字型和其他音形码那种非标准的拆分。不规范的部件和拆分仅仅是为了满足汉字输入的需要，不但不具备知识性，而且还会有误导的作用。五笔在这方面比较突出，成为五笔被许多人诟病的原因之一。</p>
 <p>实际上，纯音码输入法和纯形码输入法都是不完备的中文输入法。纯音码输入法遇到不知道读音的字就无法输入，所以拼音输入法提供了U模式，用笔画或部件来反查拼音。纯形码输入法遇到想不起字形或者不会拆分的字也无法输入，所以就会「卡壳」，需要通过拼音来反查字形，比如有的五笔用户就干脆用「五笔拼音」混打模式，以便快速反查。</p>
 <h2 id="三、快速入门"><a href="#三、快速入门" class="headerlink" title="三、快速入门"></a>三、快速入门</h2><p>声笔简码极其简单，没有什么学习门坎。需要了解的基本内容是：用v表示零声母，用<code>aeuio</code>分别表示折、横、撇、竖、点五种笔画。用一句话概括声笔简码的话，可以说成是「简拼加笔画」。</p>
-<p>虽然声笔简码已经非常简单了，但是为了进一步减轻初学者的记忆负担，在手机上提供了助记皮肤，可以长按<code>G</code>键打开或者关闭助记。在打开时，给出了笔画和零声母用键（<code>aeuio</code>和<code>v</code>）的提示，如下图所示。如果是在电脑上，则可以把该图并放在电脑桌面上，在打字的时候帮助记忆，一般几分钟就记住了。</p>
+<p>虽然声笔简码已经非常简单了，但是为了进一步减轻初学者的记忆负担，在手机上提供了助记皮肤，可以长按<code>N</code>键打开或者关闭助记。在打开时，给出了笔画和零声母用键（<code>aeuio</code>和<code>v</code>）的提示，如下图所示。如果是在电脑上，则可以把该图放在电脑桌面上，在打字的时候帮助记忆，一般几分钟就记住了。</p>
 <p><img src="/images/sbjmzj.jpg" alt="声笔简码助记"></p>
 <p>声笔简码的编码规则和示例如下。其中，s表示声母（大写的S则表示要用大写字母，手机上大写字母通过上滑对应字母键来输入），不区分平翘舌，b表示笔画。b为<code>aeuio</code>，s为b之外的21个英文字母，数字表示第几字（其中0表示末字），<code>|</code>表示或者。注意，在您输入时，三码及以上的字词可能有变化，这是因为动态码长调整的缘故（后面在动态码长一节会专门讲这一点）。</p>
 <ul>
@@ -745,7 +745,7 @@
 <p>另外，通过i引导的拼音还支持用字海两分法来进行反查， 支持查找八万多汉字，一般用于难读而易于两分的字进行反查或者GBK以外字的输入。GBK以外的字，简码不提供正常编码，不能按正常方式输入，只能在两分查找到后选择输入。下面是字海两分法查找的例子。</p>
 <p><img src="/images/jmzhlf.png" alt="简码字海两分"></p>
 <h2 id="四、连续顶屏"><a href="#四、连续顶屏" class="headerlink" title="四、连续顶屏"></a>四、连续顶屏</h2><p>在传统字词型输入法如五笔字型中，当字词的码长不足四时，需要用空格上屏，只有码长为四时的首选字词才能省略空格。在声笔简码中，除了一码字和二码词外，所有的字词在后续非笔画编码字符时都可以被顶上屏幕，无论是否达到最大码长都可以。所以说，声笔简码具有「顶功」，可以大大地节约用键，提高输入效率。</p>
-<p>例如，五笔字型的二码字<code>吧kc 给xw</code>和三码字<code>华wxf 动fcl</code>都是需要空格上屏的。声笔简码中的二码字，如<code>从cu 此ci</code>和三码字<code>接jei 威weu</code>，在连续的输入过程中一般都是不需要空格的。另外，声笔简码中的三码词，如<code>高兴gxo 计算机jsj 爱因斯坦vys 人民共和国rmg</code>，一般也是不需要空格的。</p>
+<p>例如，五笔字型的二码字<code>吧kc 给xw</code>和三码字<code>华wxf 动fcl</code>都是需要空格上屏的。声笔简码中的二码字，如<code>从cu 此ci</code>和三码字<code>接jei 威weu</code>，在连续的输入过程中一般都是不需要空格的。另外，声笔简码中的三码词，如<code>高兴gxo 计算机jsj</code>，也是不需要空格的。</p>
 <p>再如，同样是用纯单字输入<code>中国人民站起来了。</code>这句话。用五笔字型输入时的用键为<code>k_l_w_n_uh_fhn_go_b.</code>，共使用了 20 键。用声笔简码输入时的用键为<code>zigir_mazoeqelel.</code>，共使用了 17 键，其中「站」字也有可能是用 4、5 键，因为大于二码的字输入码不是固定的。用搜狗拼音输入时，则完全没有固定的输入方法，它所有字的编码默认都是动态变化的，所以它的用键会在 17 到数十键不等。</p>
 <p>正是由于连续顶屏的优势，使得声笔简码的纯单字输入平均码长在没有动态码长调整的情况下也只有3.1678，低于五笔字型的3.2658。这是一个让人吃惊的结果，因为声笔简码的单字输入是其弱项，居然比历史上以快速著称的五笔字型单字码长还短。</p>
 <h2 id="五、字词分流"><a href="#五、字词分流" class="headerlink" title="五、字词分流"></a>五、字词分流</h2><p>在传统输入法如五笔字型中，四码的字、词是混合编码的，它们共享同一个编码空间。在发生重码时，究竟把单字排在前面，还是把词组排在前面，面临艰难的决策。当收录的单字和词组数量增大时，这个问题会变得更加突出。</p>
@@ -778,28 +778,27 @@
 <p><img src="/images/SbjmZzeiea.png" alt="声笔简码Zzeiea"></p>
 <p>可见，在输入重码太多的二字词时，通过追加首字头两个笔画，会大大地提高输入效率。</p>
 <p>三字词和多字词也可以类似地使用扩展编码。比如，「旧石器」一词在第一次输入时，在输入<code>jsqi</code>后需要按多次翻页键，然后再进行选择，效率比较低，但是在追加首字的前两笔<code>ii</code>后它就出现在第一页上了。再如，「今生今世」在第一次输入时，输入<code>jsje</code>后需要按多次翻页键才能找到，而在加上首字的前两笔<code>uo</code>后就出现在第一页上了。</p>
-<h2 id="八、动态码长"><a href="#八、动态码长" class="headerlink" title="八、动态码长"></a>八、动态码长</h2><p>当某个字词在输入时若码长大于三，它的码长可能会被自动缩短，下次输入该字词时就可以少用按键了，其它的字词输入码则依次向后推移。</p>
+<h2 id="八、动态码长"><a href="#八、动态码长" class="headerlink" title="八、动态码长"></a>八、动态码长</h2><p>在声笔简码中，当某个字词在输入时若码长大于三，它的码长可能会被自动缩短，下次输入该字词时就可以少用按键了，其它的字词输入码则依次向后推移。这就是所谓的动态码长调整。</p>
 <p>例如，在第一次输入「狡」字时，如果是用<code>juau</code>后选择<code>a</code>上屏的，那么下次输入可能就只需要<code>juau</code>了，再下次输入就只要<code>jua</code>了。可见，自动码长可以大大地缩短码长，有效地提高输入速度。</p>
 <p><img src="/images/SbjmJua.gif" alt="声笔简码jua"></p>
 <p>搜狗拼音的调频与自动码长有些类似，而五笔字型则没有动态调整功能。搜狗拼音在输入<code>jiao</code>后需要翻页 7 次再用数字键选择才能将「狡」字上屏，然后再输入<code>j</code>时，「狡」字就出现在第一页上了，但是仍然要用数字选择上屏。五笔字型在输入「狡」字时，始终使用<code>qtu</code>加空格。</p>
 <p>再如，在第一次输入「视觉」一词时，如果是用<code>sjoo</code>后选择<code>e</code>上屏的，那么下次输入可能就只需要<code>sjo</code>就可以了，节约了两键，如下所示。</p>
 <p><img src="/images/SbjmSjo.png" alt="声笔简码Sjo"></p>
 <p>如果第一次输入某个字词时需要多次翻页，那么节约的用键就更多了。动态码长调整对用扩展编码输入的字词也是有效的。比如， 「揪」 字，在用<code>jeieue</code> 输入后，下次输入时可能就只需要用<code>jei</code>就可以了。当然，如果此后<code>jei</code>又因自动码长调整被别的单字所用的话，「揪」字就会被向后推到<code>jeie</code>上去。</p>
-<p>我们再来看一个综合的例子。在第一次输入<code>我们大家都喜欢研究输入法</code>这句话时，使用的编码可能为<code>我们wm_ 大家dj_ 都dei 喜欢xh_ 研究yjo 中文zwo 输入法srf</code>。而在对<code>我们大家</code>、<code>都喜欢</code>和<code>中文输入法</code>作为词组输一次后，再次输入同样一句话的时候，使用的编码可能就变成了<code>我们大家wdd 都喜欢dxh 研究yjo 中文输入法zws</code>。</p>
-<h2 id="九、自动词组"><a href="#九、自动词组" class="headerlink" title="九、自动词组"></a>九、自动词组</h2><p>声笔简码具有自动词组功能。也就是说，它能够利用用户之前输入的字词来创造新的词组，同时也能够将用户几乎不使用的新造词组自动清除。对于少量暂时还未被清理的废词，用户不必理会，到时限后就会被自动删除。在必要的时候，如用户错误地确认了临时词组，系统也提供了手动删除的手段，方法是先将光标移动到该词上面，再按<code>Control + Delete</code>键来删除。注意，如果是非临时词组，需要删除两次才能删除。第一次删除时只是把它变成了临时词组。在安卓手机上的删除方法是，用左右滑动空格定位词组，再用删词键来删除。</p>
+<h2 id="九、自动词组"><a href="#九、自动词组" class="headerlink" title="九、自动词组"></a>九、自动词组</h2><p>声笔简码具有自动词组功能。也就是说，它能够利用用户之前输入的字词来自动创造新的词组，同时也能够将用户几乎不使用的新造词组自动清除。对于少量暂时还未被清理的废词，用户不必理会，到时限后就会被自动删除。在必要的时候，如用户错误地确认了临时词组，系统也提供了手动删除的手段，方法是先将光标移动到该词上面，再按<code>Control + Delete</code>键来删除。注意，如果是非临时词组，需要删除两次才能删除。第一次删除时只是把它变成了临时词组。在安卓手机上的删除方法是，用左右滑动空格定位词组，再用删词键来删除。</p>
 <p>例如，如果要造「声笔」一词，可以先按单字方式输入声和笔。然后，按词组方式输入<code>sbue</code>，由于系统词的重码已经超过一页，需要翻页找到声笔一词，或者追加「声」的前两笔<code>ei</code>来快速过滤重码，快速找到造好的词组，或者用<code>TAB</code>快速定位到重码词的末尾。在选择输入一次新造的「声笔」后，它的码长就会动态地缩短，下次输入的时候可能就只需要<code>sbu</code>或者<code>sbue</code>了。</p>
 <p>再如，要造「声笔码」的话，若前面已经造好了「声笔」，所以可以拆成「声笔」和「码」来输入。然后，按三字词方式输入<code>sbme</code>，按<code>TAB</code>快速定位新词，可见临时词组「声笔码」已经造好了。选择上屏一次后，「声笔码」就会成为正常的词组，而且它的输入码长可能缩短。</p>
 <p>最后，如果要造「声笔简码」一词，可以先输入「声笔」和「简码」。下次多字词方式输入<code>sbje</code>或者<code>sbjM</code>时就有「声笔简码」 一词了。</p>
 <p>当然，在用户不知道系统中有某个词组的时候，如果按照词组的方式来输入，就可能因为系统没有该词而找不到想要的词组，即发生所谓打空的情况。此时，建议用<code>ESC</code>键一次清楚编码，拆开打一次就能够自动造出想要的词组，供下次使用。</p>
 <p>需要注意的是，为了避免发生组合爆炸，产生太多的垃圾词组，系统默认限制了自动造词的最大长度为5，且不能有非汉字字符。另外，在进行枚举式自动造词的时候，是以编码对应的字、词为单位来进行组合的，并不是以单字为单位的。例如，在输入<code>声笔sbu 系列xleu 码meu</code>后，生成的词组为「声笔系列码」「声笔系列」「系列码」，而不会生成「声笔系」「笔系列」「列码」等。另外，如果造词之后马上使用了退格键，系统就会自动删除所造的词组；中间夹杂有非汉字的话，也会中断造词。</p>
-<h2 id="十、数选简词"><a href="#十、数选简词" class="headerlink" title="十、数选简词"></a>十、数选简词</h2><p>声笔简码的二字词空间非常有限，造成四码时的选重频繁或者常用字词的码长较长。为了缓解这种情况，特提供了sn型和ssn型的数选词组，其中n为用数字表示的笔画，即<code>23789</code>分别对应<code>aeuio</code>。在输入的时候，对这些数选简词进行了提示，以方便用户使用，下图是两个例子。</p>
+<h2 id="十、数选简词"><a href="#十、数选简词" class="headerlink" title="十、数选简词"></a>十、数选简词</h2><p>声笔简码的二字词空间非常有限，造成四码时的选重频繁或者常用字词的码长较长。为了缓解这种情况，特提供了大量的数选简词，其中只需两键的sn型简词有105个，只需三键的ssn型数选词组有2197个。在sn和ssn中，n为用数字表示的笔画，即<code>23789</code>分别对应<code>aeuio</code>，表示折横撇竖捺。在编码格式上，sn型的数选简词为首字的声母加第二字的首笔，ssn型的数选简词为两字的声母加第二字的首笔。在输入的时候，对这些数选简词进行了提示，以方便用户使用，避免死记硬背，下图是几个例子。</p>
 <p><img src="/images/SbjmSxzc.png" alt="声笔简码Sxzc"></p>
-<p>值得注意的是，数选字词的使用不是强制性的，用户可以根据自己的情况或多或少的使用。不过，建议用户将牢记105个sn型简词，以便提高输入效率。</p>
+<p>值得注意的是，数选字词的使用不是强制性的，用户可以根据自己的情况或多或少的使用。不过，建议用户将牢记105个sn型简词，可以显著提高输入效率。</p>
 <h2 id="十一、设置选项"><a href="#十一、设置选项" class="headerlink" title="十一、设置选项"></a>十一、设置选项</h2><p>(1) 词组过滤</p>
 <p>对声笔简码来说，在默认情况下，多字词有<code>s1s2s3b0</code>和<code>s1s2s3S0</code>两种输入方式，其中<code>s1s2s3b0</code>与三字词的编码空间是重叠的，有时重码现象比较严重。如果希望多字词只用<code>s1s2s3S0</code>方式输入，那么就可以将Translator下的enable_filtering选项设置为true，以过滤掉<code>s1s2s3b0</code>上的多字词。这样，三字词和多字词之间就实现了编码空间的分离。</p>
 <p>(2) 小写模式</p>
 <p>对声笔简码来说，在默认情况下，多字词的第四码可以用大写字母来输入，而传统上是用小写字母来输入的。如果希望第四码用小写字母，那么可以将lower_case选项设置为true。不过，这样的话，三字词就不能三码起顶屏了，三码时需要空格才能上屏。一般会配合词组过滤选项使用，实现三字词和多字词独立享用不同的编码空间，主要用于多字词的使用比三字词更加频繁的时候。</p>
-<h2 id="十二、声笔简整"><a href="#十二、声笔简整" class="headerlink" title="十二、声笔简整"></a>十二、声笔简整</h2><p>声笔简整是声笔简码的整句模式。它不需要考虑单字、二字词、三字词和多字词的不同编码规则，只需要知道单字的编码就可以进行中文输入了，比已经非常简单的声笔简码还要简单，其确定性比声笔顶整高。但是，它的缺点是用键较多，在输入发生错误后回改的成本高，离散程度高的文本尤其如此。所以，声笔简整仅适合录入简单的连续文本，或者供声笔简码的初学者使用。</p>
+<h2 id="十二、声笔简整"><a href="#十二、声笔简整" class="headerlink" title="十二、声笔简整"></a>十二、声笔简整</h2><p>声笔简整是声笔简码的整句模式。它不需要考虑单字、二字词、三字词和多字词的不同编码规则，只需要知道单字的编码就可以进行中文输入了，比已经非常简单的声笔简码还要简单。但是，它的缺点是用键较多，在输入发生错误后回改的成本高，离散程度高的文本尤其如此。所以，声笔简整仅适合录入简单的连续文本，或者供声笔简码的初学者使用。</p>
 <p>声笔简整固定了21个最常用的一简字，只需要一码，其它字可以采用二至六码。既可以使用词组，也可以使用短语来输入，但是尽量不要使用长句。这样，编码空间得到了有效的利用，重码也得到了有效的离散，还能减少回改的概率。</p>
 <p>问题是，在什么时候用两码，什么时候用三码，什么时候又用四、五、六码呢？什么时候用词组，什么时候又用短语呢？一般来说，越常用的字词，码长可以用得越短；越不常见的字词，码长应当越长。容易发生歧义的地方，就应该常用词组及时上屏，以避免已经输入的正确内容被篡改。如何把握火候，就需要经验的积累了。</p>
 <p>声笔简整还提供了快速定位的手段，可以用<code>12345</code>一键定位到待确定的第一至五个字的编码前，也可以用TAB键从后向前逐个以字为单位来移动编码进行定位。</p>
@@ -809,7 +808,7 @@
 <p>在上例中，<code>我们</code>、<code>大家</code>和<code>输入法</code>都使用了简拼，<code>都喜欢</code>和<code>研究</code>的采用了简拼和声笔的混合编码。当然，以上的输入方式不是唯一的。</p>
 <p><strong>例2:</strong><code>声笔系列码的顶功特色</code></p>
 <p><img src="/images/sbjz2.gif" alt="简整例子"></p>
-<p>在例2中，由于<code>声笔系列码</code>和<code>顶功</code>这两个短语和词组在系统词库中是不存在的，可以先按每字声母加两个笔画的方式输入，用<code>12345</code>进行快速定位回改，待系统造好短语和词组后，再用更简便的方式来输入。</p>
+<p>在例2中，由于<code>声笔系列码</code>和<code>顶功</code>这两个短语和词组在系统词库中是不存在的，可以先按每字声母加两个笔画的方式输入，用<code>12345</code>进行快速定位回改，待系统造好短语和词组后，再用更简便的方式来输入。这个例子一次输入了十个字，虽然每个字都用了三码，回改的地方还是比较多，回改成本是比较高的，不是推荐的方法，应采用词组或短语为单位来输入，就可以增加确定性，减少回改量。</p>
 <h2 id="附录：声笔简码的编码格式"><a href="#附录：声笔简码的编码格式" class="headerlink" title="附录：声笔简码的编码格式"></a>附录：声笔简码的编码格式</h2><p>为了便于用户总结和记忆声笔简码的基本内容，现将其字词的编码格式以浓缩的表达式方式总结如下。</p>
 <ul>
 <li>单字：<code>sb^b&#39;b(bb)x</code>，即声母加前三个笔画，可选地加第四、五笔，然后选择重码。</li>

diff --git a/about/index.html b/about/index.html
@@ -124,7 +124,7 @@
 <meta property="og:image" content="http://sbxlm.gitee.io/images/stop_change.png">
 <meta property="og:image" content="http://sbxlm.gitee.io/images/bsgz.jpg">
 <meta property="og:image" content="http://sbxlm.gitee.io/images/bhlx.jpg">
-<meta property="og:updated_time" content="2021-03-01T08:23:21.349Z">
+<meta property="og:updated_time" content="2021-03-02T07:00:43.349Z">
 <meta name="twitter:card" content="summary">
 <meta name="twitter:title" content="总体介绍">
 <meta name="twitter:description" content="本章先回顾中文输入所经历的艰难历程和近年来取得的成就，指出中文输入仍然面临的一些问题，然后介绍声笔系列码怎么样革命性地解决这些问题。接下来，介绍如何选择和学习声笔系列码的具体方案和如何获取、安装与卸载声笔系列码。本篇最后「声笔系列码基础知识」一节，论述了一些跨输入方案的共同内容，如反查、翻页、标点、符号、词库同步、自定义词典、中英文混合输入、手机上的一般操作，在具体方案的介绍中可能就没有重复这些内">
@@ -1057,6 +1057,8 @@
 <p><img src="/images/stop_change.png" alt="开停调频与造词"></p>
 <p>(2) 自动删词阈值</p>
 <p>声笔系列的所有字词方案默认都能自动删除过时的临时词组。默认的删除规则是，若在输入时检索到某个临时词组的tick值与最新的全局tick值之差的绝对值大于等于1000时，则将该临时词组删除。这个绝对值称为delete_threshold，可以在Translator中修改。当它小于等于0时，则不会删除临时词组，否则就按该值规定的tick差值来删除。该值的通俗含义就是，检索到某个临时词组前你输入了多少个字词。该选项也能用于非声笔系列的方案。</p>
+<p>(3) 多字词过滤</p>
+<p>声笔系列中的简码、飞讯和快讯有一个开启多字词过滤的选项enable_filtering。这个选项默认的情况下为false，即未开启。未开启多字词过滤时，简码的sssb编码、飞讯和快讯的szsbb编码会将多字词也查找出来，而开启（即将enable_filtering设置为true）的时候则会过滤掉多字词，从而减少重码，这时多字词就只能采用sssS的形式来输入。</p>
 <h2 id="附录一：笔画的国家规范"><a href="#附录一：笔画的国家规范" class="headerlink" title="附录一：笔画的国家规范"></a>附录一：笔画的国家规范</h2><p>声笔系列码对笔画的使用完全遵从国家的有关规范，这对纠正使用者的错误笔顺和识别正确的笔画类型是很有帮助的。</p>
 <h3 id="1-笔顺规则"><a href="#1-笔顺规则" class="headerlink" title="1. 笔顺规则"></a>1. 笔顺规则</h3><p><img src="/images/bsgz.jpg" alt="笔顺规则"></p>
 <h3 id="2-笔画类型"><a href="#2-笔画类型" class="headerlink" title="2. 笔画类型"></a>2. 笔画类型</h3><p><img src="/images/bhlx.jpg" alt="笔画类型"></p>
